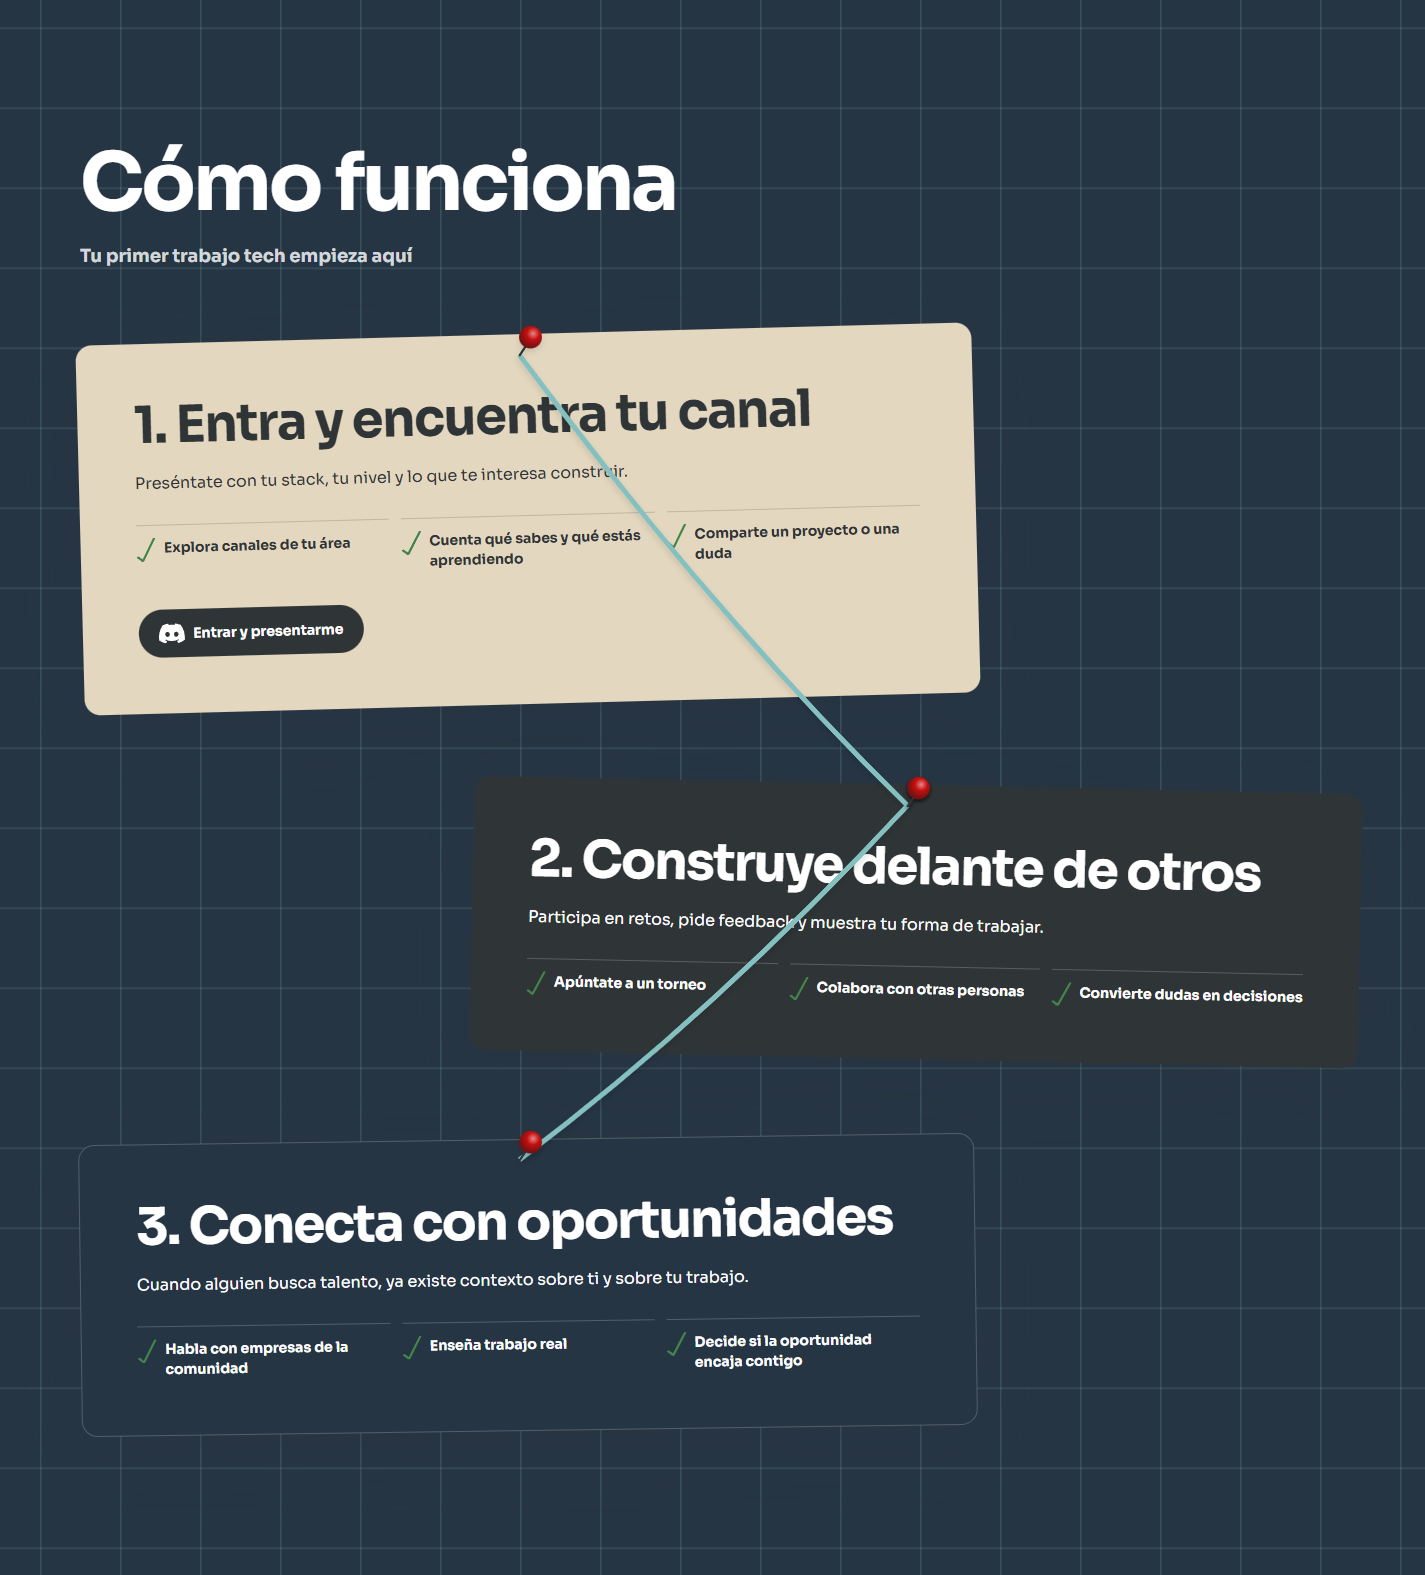
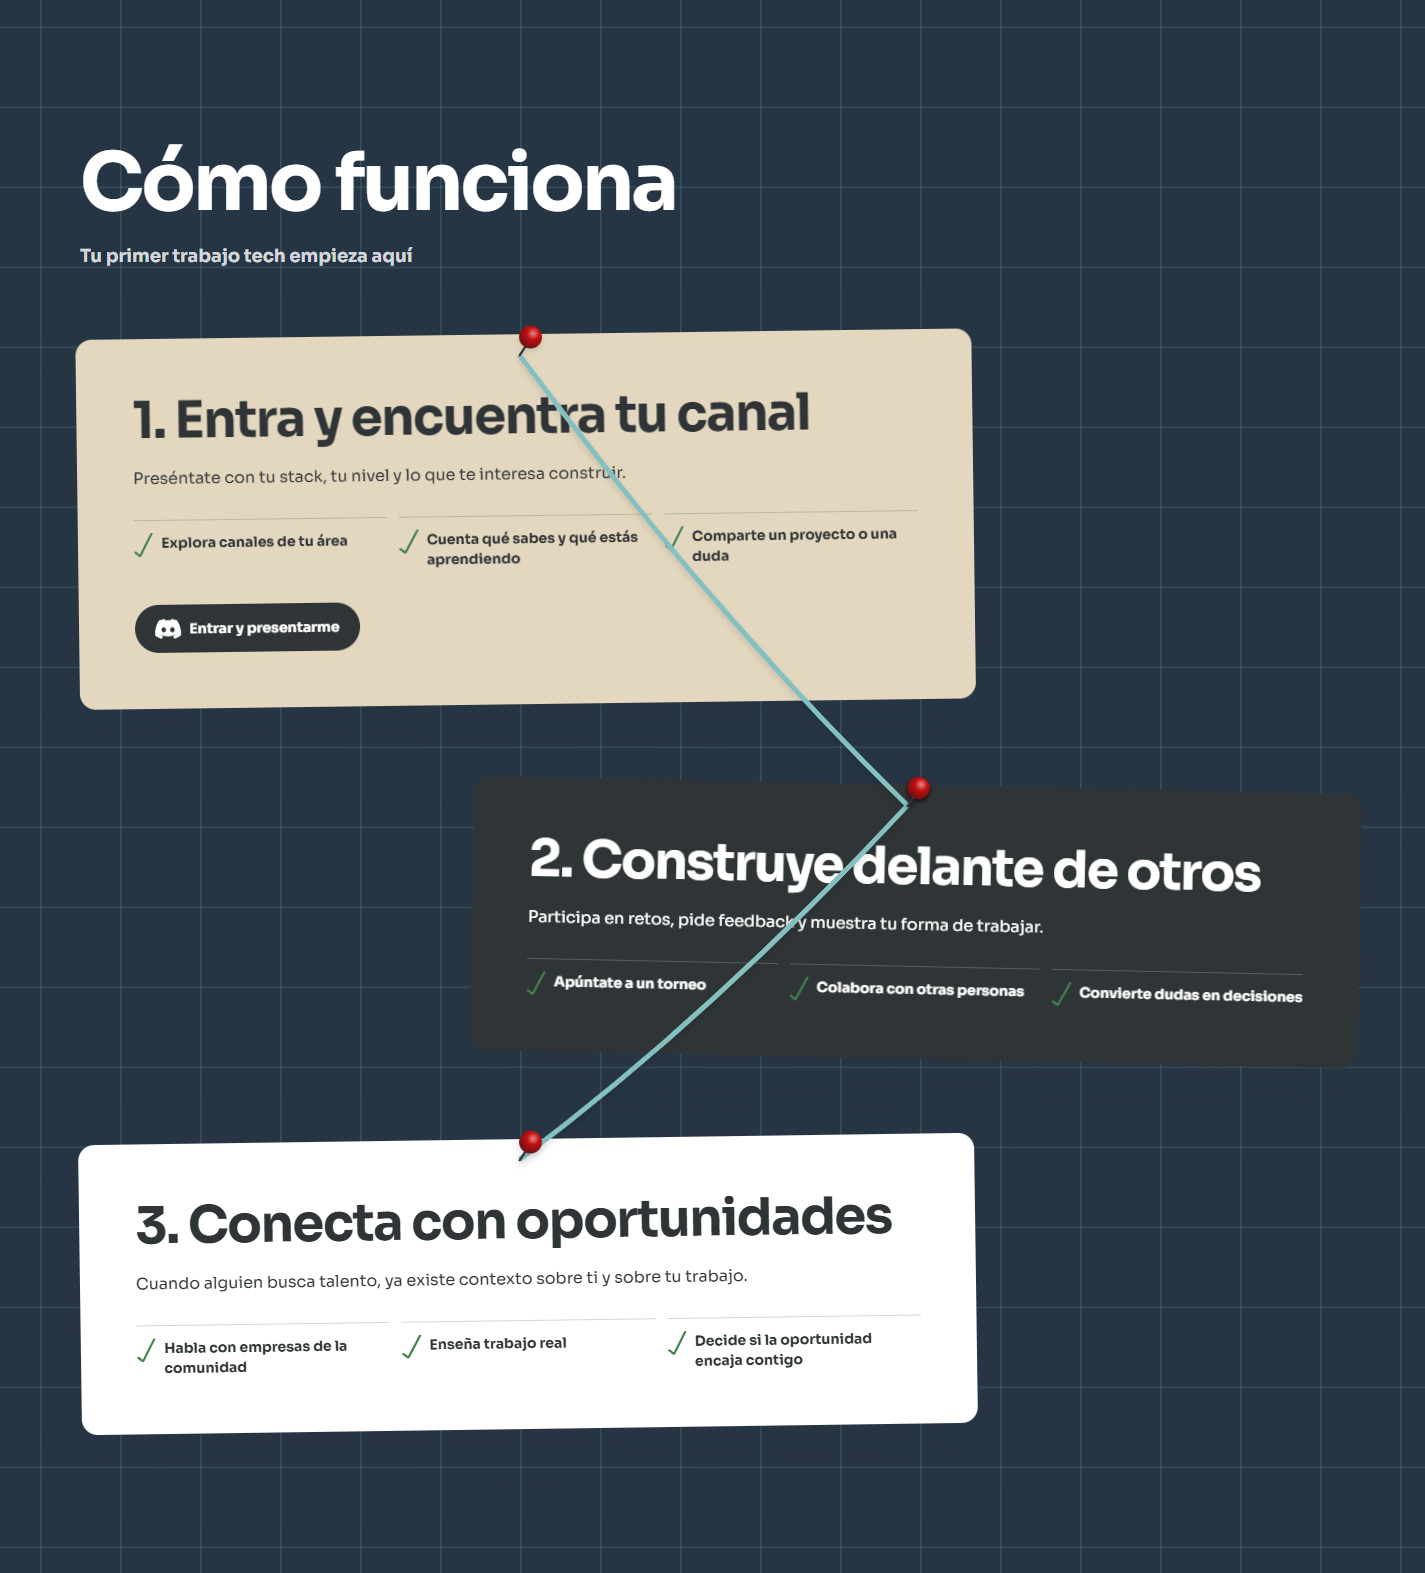
fix: preserve white cards and share the slate section grid

diff --git a/components/tournaments.tsx b/components/tournaments.tsx
@@ -24,28 +24,28 @@ export async function TournamentsSection() {
             <p className="absolute right-0 top-0 z-30 w-36 rotate-[4deg] text-right text-xs font-bold leading-tight text-primary min-[40rem]:w-40 min-[40rem]:text-sm min-[80rem]:w-48 min-[80rem]:text-base">{t("meta")}</p>
             <Image src="/images/arrow4.svg" alt="" width={20} height={23} className="absolute right-[16%] top-[3rem] z-20 h-6 w-auto rotate-[200deg] min-[40rem]:right-[20%] min-[40rem]:top-12 min-[40rem]:h-7 min-[80rem]:right-[22%] min-[80rem]:top-14" />
 
-            <article data-swing-card className="absolute left-1/2 top-20 z-20 w-[min(76%,19rem)] -translate-x-1/2 -rotate-[2deg] rounded-2xl border border-white/20 bg-slate p-5 text-white shadow-card min-[40rem]:top-16">
+            <article data-swing-card className="absolute left-1/2 top-20 z-20 w-[min(76%,19rem)] -translate-x-1/2 -rotate-[2deg] rounded-2xl bg-white p-5 text-ink shadow-card min-[40rem]:top-16">
               <Image src="/images/pin.svg" alt="" width={32} height={36} data-swing-pin className="absolute -top-5 left-1/2 h-9 w-auto -translate-x-1/2" />
               <div className="flex items-center justify-between gap-3">
-                <p className="text-xs font-bold uppercase tracking-[.14em] text-white/75">{t("winner")}</p>
-                <span className="rounded-full bg-primary px-2.5 py-1 text-xs font-bold text-ink">#1</span>
+                <p className="text-xs font-bold uppercase tracking-[.14em] text-ink/75">{t("winner")}</p>
+                <span className="rounded-full bg-primary px-2.5 py-1 text-xs font-bold">#1</span>
               </div>
               <div className="mt-5 space-y-2" aria-hidden="true">
-                <span className="block h-2.5 w-4/5 rounded-full bg-white/80" />
-                <span className="block h-2.5 w-3/5 rounded-full bg-white/35" />
+                <span className="block h-2.5 w-4/5 rounded-full bg-ink/80" />
+                <span className="block h-2.5 w-3/5 rounded-full bg-ink/35" />
                 <span className="block h-2 w-1/2 rounded-full bg-primary" />
               </div>
-              <p className="mt-5 text-sm leading-relaxed text-white/75">{t("winnerDescription")}</p>
+              <p className="mt-5 text-sm leading-relaxed text-ink/75">{t("winnerDescription")}</p>
             </article>
 
             <div className="absolute inset-x-0 bottom-14 flex items-end justify-center gap-[clamp(.6rem,2.5vw,1.25rem)]">
-              <div className="podium-step relative h-36 w-[27%] max-w-44 rotate-[-1deg] rounded-t-2xl bg-slate shadow-card">
+              <div className="podium-step relative h-36 w-[27%] max-w-44 rotate-[-1deg] rounded-t-2xl bg-white/8 shadow-card">
                 <span className="absolute inset-0 flex items-center justify-center text-[clamp(2.5rem,6vw,4.5rem)] font-bold text-primary/70">2</span>
               </div>
               <div className="podium-step relative h-56 w-[32%] max-w-52 rotate-[.7deg] rounded-t-2xl bg-primary shadow-card">
                 <span className="absolute inset-x-0 bottom-7 text-center text-[clamp(3.5rem,8vw,6rem)] font-bold leading-none text-ink">1</span>
               </div>
-              <div className="podium-step relative h-28 w-[25%] max-w-40 rotate-[1.4deg] rounded-t-2xl bg-slate shadow-card">
+              <div className="podium-step relative h-28 w-[25%] max-w-40 rotate-[1.4deg] rounded-t-2xl bg-white/8 shadow-card">
                 <span className="absolute inset-0 flex items-center justify-center text-[clamp(2rem,5vw,3.75rem)] font-bold text-primary/70">3</span>
               </div>
             </div>

diff --git a/components/news-section.tsx b/components/news-section.tsx
@@ -7,12 +7,12 @@ export async function NewsSection() {
   const items = t.raw("news.items") as NewsItem[];
 
   return (
-    <section className="bg-slate px-[var(--page-gutter)] py-[clamp(5rem,10vw,9rem)] text-white" aria-labelledby="news-heading">
+    <section className="bg-slate section-grid px-[var(--page-gutter)] py-[clamp(5rem,10vw,9rem)] text-white" aria-labelledby="news-heading">
       <div className="mx-auto max-w-[80rem]">
         <h2 id="news-heading" className="font-bold leading-none tracking-[-.035em]">{t("news.title")}</h2>
         <div className="mt-12 grid gap-6 min-[60rem]:grid-cols-[1.15fr_1fr] min-[60rem]:grid-rows-2">
           {items.map((item, index) => (
-            <article key={item.title} className={`flex min-w-0 flex-col overflow-hidden rounded-2xl border border-white/20 bg-slate ${index === 0 ? "min-[60rem]:row-span-2" : ""}`}>
+            <article key={item.title} className={`flex min-w-0 flex-col overflow-hidden rounded-2xl border border-ink/15 bg-white text-ink ${index === 0 ? "min-[60rem]:row-span-2" : ""}`}>
               {index === 0 && item.image && (
                 <Image
                   src={item.image.src}
@@ -26,14 +26,14 @@ export async function NewsSection() {
               <div className="flex flex-1 flex-col p-6 min-[40rem]:p-8">
                 <div className="flex flex-wrap items-center justify-between">
                   <span className="rounded-full bg-primary px-3 py-1 text-xs font-bold text-ink">{item.category}</span>
-                  <time className="mr-full text-xs text-white/75" dateTime={item.date}>{item.dateLabel}</time>
+                  <time className="mr-full text-xs text-ink/75" dateTime={item.date}>{item.dateLabel}</time>
                 </div>
                 <h3 className={`mt-5 text-balance font-bold leading-tight tracking-[-.025em] ${index === 0 ? "text-[clamp(1.5rem,2.6vw,2.25rem)]" : "text-[clamp(1.25rem,2vw,1.65rem)]"}`}>{item.title}</h3>
-                <p className="mt-4 max-w-[65ch] text-sm leading-relaxed text-white/80">{item.summary}</p>
+                <p className="mt-4 max-w-[65ch] text-sm leading-relaxed text-ink/80">{item.summary}</p>
                 <ul className="mt-auto flex flex-wrap gap-x-5 gap-y-2 pt-5">
                   {item.links.map((link) => (
                     <li key={link.url} className="min-w-0">
-                      <a href={link.url} className="inline-flex min-h-11 items-center gap-2 text-sm font-bold text-white underline decoration-primary decoration-2 underline-offset-4 [overflow-wrap:anywhere]">
+                      <a href={link.url} className="inline-flex min-h-11 items-center gap-2 text-sm font-bold text-ink underline decoration-primary decoration-2 underline-offset-4 [overflow-wrap:anywhere]">
                         {link.label}
                       </a>
                     </li>

diff --git a/components/community-sections.tsx b/components/community-sections.tsx
@@ -13,7 +13,7 @@ export async function NetworkingSection() {
   const t = await getTranslations("networking");
 
   return (
-    <section id="networking" className="relative scroll-mt-24 overflow-hidden bg-slate px-[var(--page-gutter)] py-[clamp(5rem,10vw,9rem)] text-white" aria-labelledby="networking-heading">
+    <section id="networking" className="relative scroll-mt-24 overflow-hidden bg-slate section-grid px-[var(--page-gutter)] py-[clamp(5rem,10vw,9rem)] text-white" aria-labelledby="networking-heading">
       <div className="mx-auto grid max-w-[80rem] gap-16 min-[62rem]:grid-cols-[.8fr_1.2fr] min-[62rem]:items-center">
         <div>
           <h2 id="networking-heading" className="max-w-[13ch] text-balance font-bold leading-[.95] tracking-[-.035em]">{t("title")}</h2>
@@ -90,8 +90,8 @@ export async function NewsletterSection() {
         <form action="#newsletter" className="rounded-2xl bg-ink p-5 text-white shadow-card min-[36rem]:p-7">
           <label className="text-sm font-bold" htmlFor="newsletter-email">{t("label")}</label>
           <div className="mt-3 grid gap-3 min-[36rem]:grid-cols-[1fr_auto]">
-            <input id="newsletter-email" name="email" type="email" autoComplete="email" required placeholder={t("placeholder")} className="min-h-13 min-w-0 rounded-xl border border-white/30 bg-slate px-4 text-base text-white placeholder:text-white/65" />
-            <button type="submit" className={`${fillButtonClasses} min-h-13 cursor-pointer rounded-xl bg-primary px-5 text-sm font-bold text-ink before:bg-slate hover:text-white`}><AnimatedButtonLabel text={t("button")} variant="fill" /></button>
+            <input id="newsletter-email" name="email" type="email" autoComplete="email" required placeholder={t("placeholder")} className="min-h-13 min-w-0 rounded-xl bg-white px-4 text-base text-ink placeholder:text-ink/50" />
+            <button type="submit" className={`${fillButtonClasses} min-h-13 cursor-pointer rounded-xl bg-primary px-5 text-sm font-bold text-ink before:bg-white hover:text-ink`}><AnimatedButtonLabel text={t("button")} variant="fill" /></button>
           </div>
           <p className="mt-3 text-xs text-white/70">{t("note")}</p>
         </form>

diff --git a/components/how-it-works.tsx b/components/how-it-works.tsx
@@ -7,14 +7,14 @@ import { site } from "@/lib/site";
 const steps = [
   { id: "join", items: ["channels", "introduction", "project"], tone: "bg-postit text-ink", rotate: "-rotate-[1.5deg]" },
   { id: "participate", items: ["challenge", "build", "feedback"], tone: "bg-ink text-white", rotate: "rotate-[1.2deg]" },
-  { id: "connect", items: ["messages", "work", "fit"], tone: "bg-slate text-white border border-white/20", rotate: "-rotate-[.8deg]" },
+  { id: "connect", items: ["messages", "work", "fit"], tone: "bg-white text-ink", rotate: "-rotate-[.8deg]" },
 ] as const;
 
 export async function HowItWorks() {
   const t = await getTranslations("howItWorks");
 
   return (
-    <section id="how-it-works" className="relative scroll-mt-24 overflow-hidden bg-slate bg-center [background-image:linear-gradient(to_right,rgba(132,192,191,.2)_1px,transparent_2px),linear-gradient(to_bottom,rgba(132,192,191,.2)_1px,transparent_2px)] [background-size:5rem_5rem] px-[var(--page-gutter)] py-[clamp(5rem,10vw,9rem)] text-white" aria-labelledby="how-it-works-heading">
+    <section id="how-it-works" className="relative scroll-mt-24 overflow-hidden bg-slate section-grid px-[var(--page-gutter)] py-[clamp(5rem,10vw,9rem)] text-white" aria-labelledby="how-it-works-heading">
       <div className="mx-auto max-w-[80rem]">
         <header className="max-w-[60rem]">
           <h2 id="how-it-works-heading" className="text-balance font-bold leading-[.98] tracking-[-.035em]">{t("title")}</h2>

diff --git a/components/hero.tsx b/components/hero.tsx
@@ -59,17 +59,17 @@ export async function Hero() {
 
       <div className="relative mx-auto mt-16 min-h-[31rem] w-full max-w-[39rem] min-[64rem]:mt-0">
         <p className="sr-only">{t("hero.activity.status")}</p>
-        <div className="scene-card absolute left-[3%] top-[4%] z-20 w-[72%] -rotate-[4deg] rounded-2xl border border-white/20 bg-slate p-5 text-white shadow-card">
+        <div className="scene-card absolute left-[3%] top-[4%] z-20 w-[72%] -rotate-[4deg] rounded-2xl bg-white p-5 text-ink shadow-card">
           <div className="flex items-center gap-3">
             <CommunityAvatar name="Alex R frontend" size={52} className="size-13 shrink-0" />
             <div>
               <p className="text-sm font-bold">{t("profile.name")}</p>
-              <p className="text-xs text-white/80">{t("profile.role")}</p>
+              <p className="text-xs text-ink/80">{t("profile.role")}</p>
             </div>
             <span className="ml-auto size-2.5 rounded-full bg-primary" aria-hidden="true" />
           </div>
           <div className="mt-5 grid gap-2 text-sm">
-            <p className="rounded-xl bg-white/10 px-3 py-2">React · TypeScript · Next.js</p>
+            <p className="rounded-xl bg-ink/6 px-3 py-2">React · TypeScript · Next.js</p>
             <p className="rounded-xl bg-primary/30 px-3 py-2 font-bold">{t("profile.strengths.project")}</p>
           </div>
         </div>

diff --git a/components/community-wall.tsx b/components/community-wall.tsx
@@ -375,7 +375,7 @@ export function CommunityWall({ members, hint, wallLabel, spot, discord }: Props
         onClick={openSpot}
       />
       {spotOpen && (
-        <div className="absolute z-30 flex max-w-[min(15rem,80vw)] -translate-x-1/2 -translate-y-[calc(100%_+_14px)] rotate-[-1deg] animate-wall-tip-in flex-col items-start gap-2.5 rounded-2xl border border-white/20 bg-slate px-3.5 py-4 text-left text-white shadow-card after:absolute after:top-full after:left-1/2 after:-translate-x-1/2 after:border-7 after:border-transparent after:border-t-slate after:content-['']" style={{ left: spotOpen.x, top: spotOpen.y }}>
+        <div className="absolute z-30 flex max-w-[min(15rem,80vw)] -translate-x-1/2 -translate-y-[calc(100%_+_14px)] rotate-[-1deg] animate-wall-tip-in flex-col items-start gap-2.5 rounded-2xl bg-white px-3.5 py-4 text-left text-ink shadow-card after:absolute after:top-full after:left-1/2 after:-translate-x-1/2 after:border-7 after:border-transparent after:border-t-white after:content-['']" style={{ left: spotOpen.x, top: spotOpen.y }}>
           <strong className="block text-sm leading-snug">{spot.title}</strong>
           <a href={discord} className="group/action relative mt-2 inline-flex min-h-10 items-center overflow-hidden rounded-full bg-primary px-4 text-xs font-bold text-ink mx-auto">
             <AnimatedButtonLabel text={spot.cta} />

diff --git a/components/audience-sides.tsx b/components/audience-sides.tsx
@@ -75,7 +75,7 @@ export async function CompaniesSection() {
               </ul>
             </div>
           </div>
-          <div className="scene-card absolute -bottom-1 left-[4%] z-30 w-[78%] -rotate-[2deg] rounded-2xl border border-white/20 bg-slate p-4 text-white shadow-card min-[36rem]:left-[-5%] min-[36rem]:w-[62%]">
+          <div className="scene-card absolute -bottom-1 left-[4%] z-30 w-[78%] -rotate-[2deg] rounded-2xl bg-white p-4 text-ink shadow-card min-[36rem]:left-[-5%] min-[36rem]:w-[62%]">
             <p className="text-sm font-bold">TechToJob · {t("companies.card.replyTime")}</p>
             <p className="mt-1 text-sm">{t("companies.points.context")}</p>
           </div>

diff --git a/components/site-header.tsx b/components/site-header.tsx
@@ -23,7 +23,7 @@ function Navigation({ t, mobile = false }: Readonly<{ t: Translate; mobile?: boo
           <a
             href={href}
             className={mobile
-              ? "block rounded-xl px-4 py-3 text-base font-bold transition-colors hover:bg-slate hover:text-primary"
+              ? "block rounded-xl px-4 py-3 text-base font-bold transition-colors hover:bg-white/8 hover:text-primary"
               : "text-sm font-bold transition-colors hover:text-primary"}
           >
             {t(`navigation.${key}`)}

diff --git a/app/global.css b/app/global.css
@@ -70,6 +70,14 @@
   }
 }
 
+.section-grid {
+  background-image:
+    linear-gradient(to right, rgba(132, 192, 191, .2) 1px, transparent 2px),
+    linear-gradient(to bottom, rgba(132, 192, 191, .2) 1px, transparent 2px);
+  background-position: center;
+  background-size: 5rem 5rem;
+}
+
 .scene-card,
 .floating-avatar {
   animation: float 7s ease-in-out infinite;

diff --git a/README.md b/README.md
@@ -45,11 +45,11 @@ Validación local: lint, tipos, build y navegador de producción en móvil, tabl
 
 ## Fondos oscuros
 
-El azul pizarra `#263544` reemplaza los fondos blancos de secciones, tarjetas y controles, salvo las tarjetas de testimonios, que conservan su blanco original. El color está centralizado en `--color-slate` (`app/global.css`) y se consume mediante Tailwind. Se mantienen los fondos verdes, el gris de marca y los post-its beige para conservar los cambios de color entre secciones.
+El azul pizarra `#263544` reemplaza únicamente los fondos blancos de las secciones «Cómo funciona», Networking y Noticias. Todas comparten la misma cuadrícula verde de 5 rem, centrada y definida en `.section-grid` (`app/global.css`). El color está centralizado en `--color-slate` y se consume mediante Tailwind.
 
-Los textos, las fechas, los enlaces, el placeholder del email, los bordes y el globo del muro se adaptaron al fondo oscuro. No se sustituyeron recursos ni se añadió JavaScript. La cuadrícula de «Cómo funciona» sigue presente.
+Las tarjetas, los rankings, el formulario y el globo del muro conservan sus superficies blancas originales y su texto oscuro; los testimonios también siguen blancos. Se mantienen los fondos verdes, el gris de marca y los post-its beige. Los títulos y textos que aparecen directamente sobre azul pizarra usan colores claros. No se añadieron recursos, dependencias ni JavaScript.
 
-Comprobaciones locales: `pnpm check`, build estático de producción, revisión responsive a 320, 390, 768, 1440 y 1920 px y reflujo a 720 px. Se comprobaron los colores calculados y el contraste de los textos sobre los fondos afectados, el foco del formulario y el globo de la comunidad. Capturas en `artifacts/slate-backgrounds`. La verificación en móvil real y Lighthouse final en producción siguen pendientes.
+Comprobaciones locales: `pnpm check`, build estático de producción y revisión responsive a 320, 390, 768, 1440 y 1920 px. Se comprobaron la cuadrícula compartida, las superficies blancas y el foco de los controles. Capturas en `artifacts/slate-backgrounds`. La verificación en móvil real y Lighthouse final en producción siguen pendientes.
 
 ## Recursos y licencias
 
